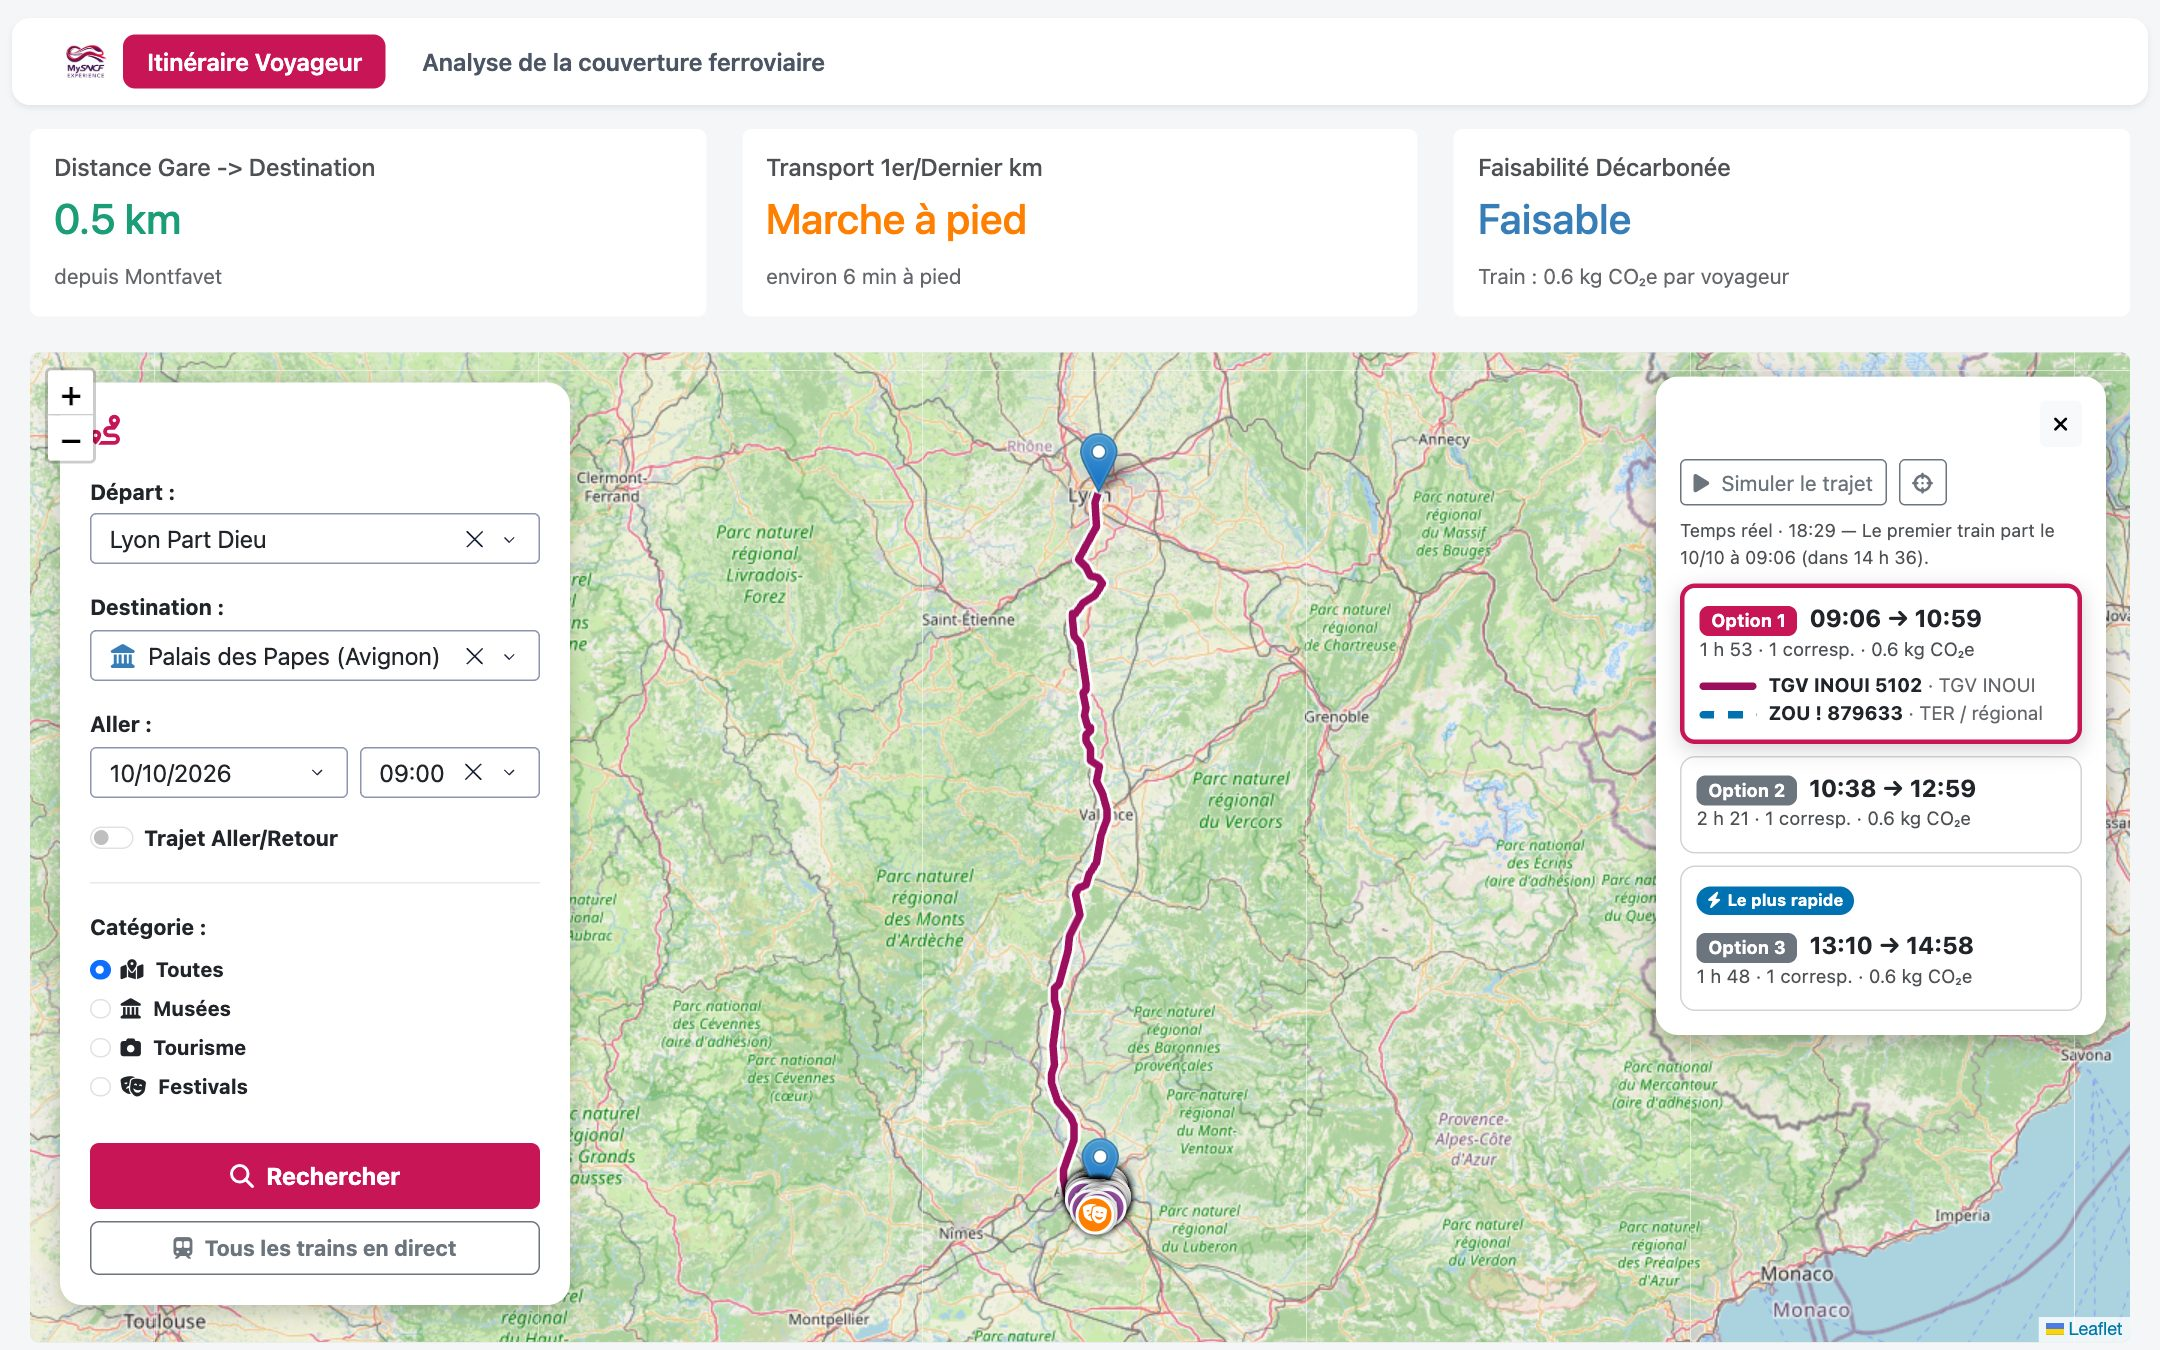
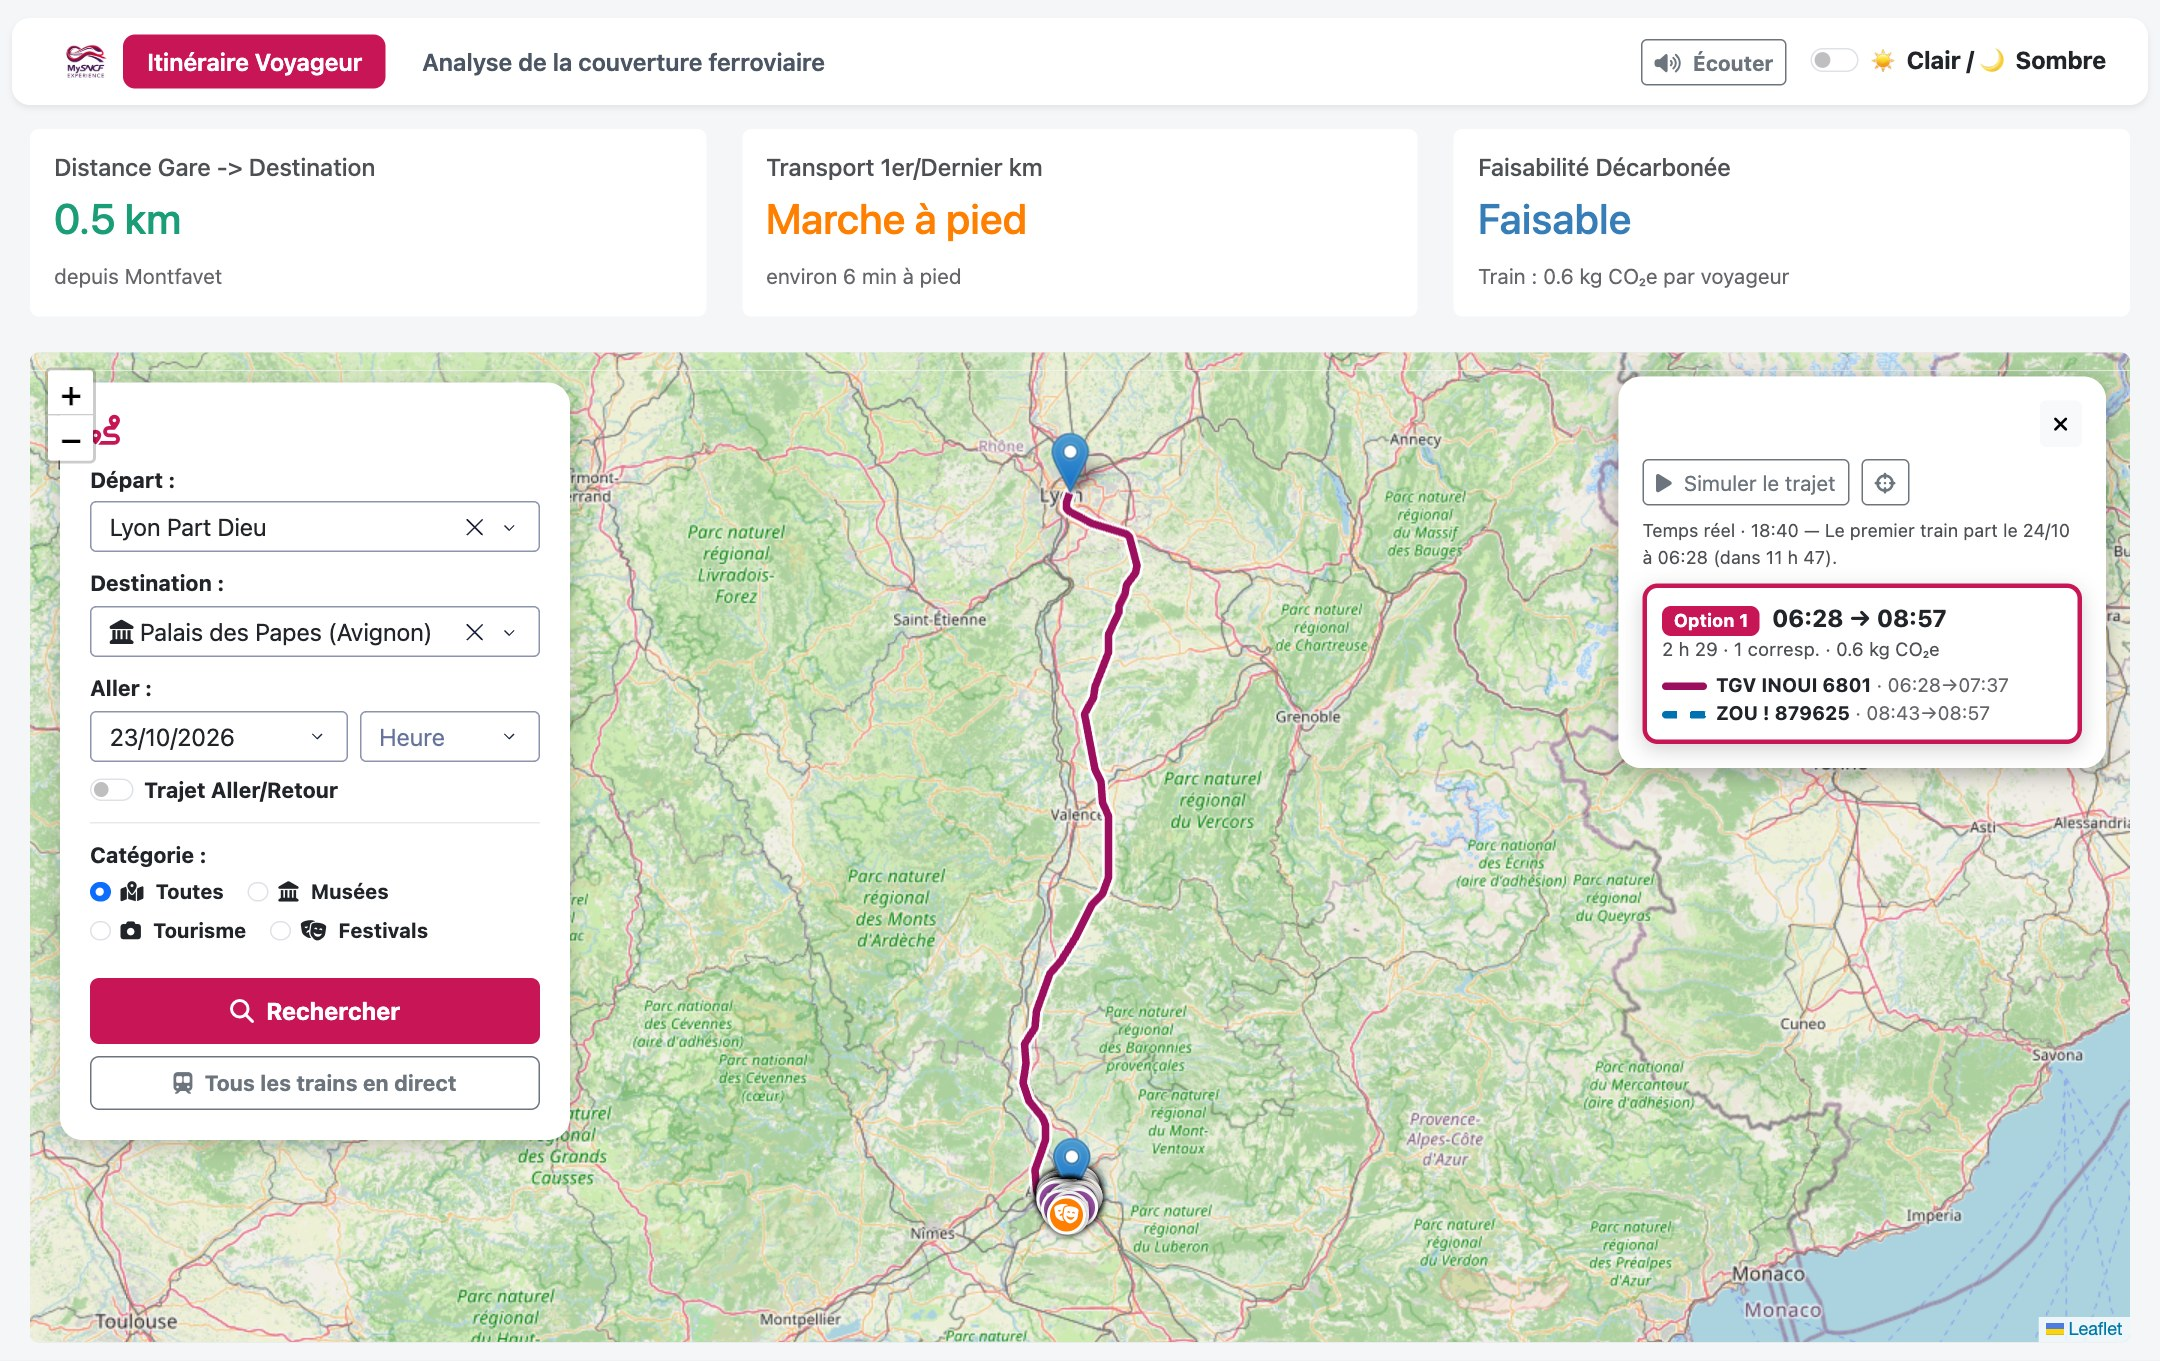
docs(readme): met à jour la capture de l'onglet Itinéraire et la taille de la base

diff --git a/README.md b/README.md
@@ -25,7 +25,7 @@ Un dashboard en deux onglets, construit sur les données ouvertes (SNCF, DATAtou
 ### 1. Prérequis
 
 - Python 3.11 ou plus récent, et Git.
-- Environ 20 Go d'espace disque libre, dont environ 9 Go pour la base de données et 5 Go pour l'extrait OpenStreetMap de la France (tracé des cars), une fois les données téléchargées.
+- Environ 20 Go d'espace disque libre, dont environ 10 Go pour la base de données et 5 Go pour l'extrait OpenStreetMap de la France (tracé des cars), une fois les données téléchargées.
 
 ### 2. Récupérer le projet
 
